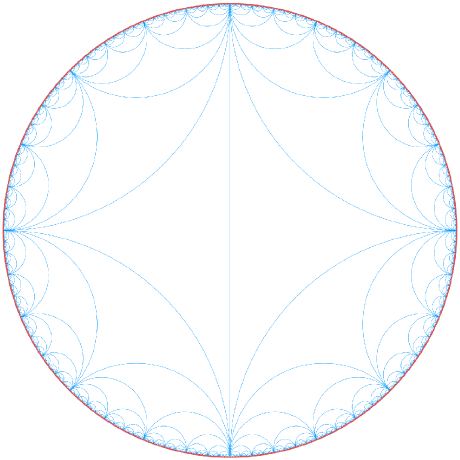
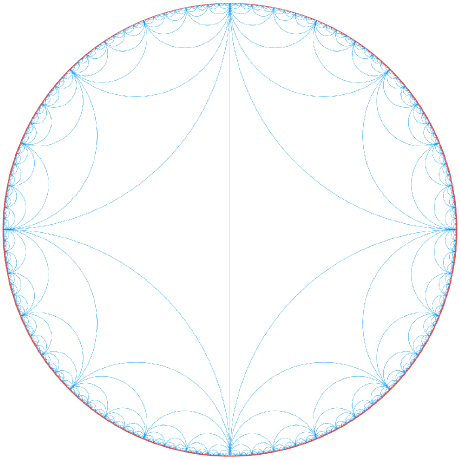
fixed farey

diff --git a/Code/index.html b/Code/index.html
@@ -8,6 +8,11 @@
     <meta name="keywords" content="Number Theory, Arithmetic Statistics, Elliptic Curves">
     <meta name="title" content="Ross Paterson">
     <meta name="description" content="Homepage of Ross Paterson, PhD student in mathematics at the University of Glasgow.">
+    <link rel="icon" type="image/png" sizes="460x460" href="../assets/img/Farey.png">
+    <link rel="icon" type="image/png" sizes="460x460" href="../assets/img/Farey.png">
+    <link rel="icon" type="image/png" sizes="460x460" href="../assets/img/Farey.png">
+    <link rel="icon" type="image/png" sizes="460x460" href="../assets/img/Farey.png">
+    <link rel="icon" type="image/png" sizes="460x460" href="../assets/img/Farey.png">
     <link rel="stylesheet" href="https://cdnjs.cloudflare.com/ajax/libs/twitter-bootstrap/4.3.1/css/bootstrap.min.css">
     <link rel="stylesheet" href="https://cdnjs.cloudflare.com/ajax/libs/ionicons/2.0.1/css/ionicons.min.css">
     <link rel="stylesheet" href="../assets/css/Footer-Basic.css">

diff --git a/Misc/index.html b/Misc/index.html
@@ -8,6 +8,11 @@
     <meta name="keywords" content="Number Theory, Arithmetic Statistics, Elliptic Curves">
     <meta name="title" content="Ross Paterson">
     <meta name="description" content="Homepage of Ross Paterson, PhD student in mathematics at the University of Glasgow.">
+    <link rel="icon" type="image/png" sizes="460x460" href="../assets/img/Farey.png">
+    <link rel="icon" type="image/png" sizes="460x460" href="../assets/img/Farey.png">
+    <link rel="icon" type="image/png" sizes="460x460" href="../assets/img/Farey.png">
+    <link rel="icon" type="image/png" sizes="460x460" href="../assets/img/Farey.png">
+    <link rel="icon" type="image/png" sizes="460x460" href="../assets/img/Farey.png">
     <link rel="stylesheet" href="https://cdnjs.cloudflare.com/ajax/libs/twitter-bootstrap/4.3.1/css/bootstrap.min.css">
     <link rel="stylesheet" href="https://cdnjs.cloudflare.com/ajax/libs/ionicons/2.0.1/css/ionicons.min.css">
     <link rel="stylesheet" href="../assets/css/Footer-Basic.css">

diff --git a/Notes/index.html b/Notes/index.html
@@ -8,6 +8,11 @@
     <meta name="keywords" content="Number Theory, Arithmetic Statistics, Elliptic Curves">
     <meta name="title" content="Ross Paterson">
     <meta name="description" content="Homepage of Ross Paterson, PhD student in mathematics at the University of Glasgow.">
+    <link rel="icon" type="image/png" sizes="460x460" href="../assets/img/Farey.png">
+    <link rel="icon" type="image/png" sizes="460x460" href="../assets/img/Farey.png">
+    <link rel="icon" type="image/png" sizes="460x460" href="../assets/img/Farey.png">
+    <link rel="icon" type="image/png" sizes="460x460" href="../assets/img/Farey.png">
+    <link rel="icon" type="image/png" sizes="460x460" href="../assets/img/Farey.png">
     <link rel="stylesheet" href="https://cdnjs.cloudflare.com/ajax/libs/twitter-bootstrap/4.3.1/css/bootstrap.min.css">
     <link rel="stylesheet" href="https://cdnjs.cloudflare.com/ajax/libs/ionicons/2.0.1/css/ionicons.min.css">
     <link rel="stylesheet" href="../assets/css/Footer-Basic.css">

diff --git a/index.html b/index.html
@@ -8,6 +8,11 @@
     <meta name="keywords" content="Number Theory, Arithmetic Statistics, Elliptic Curves">
     <meta name="title" content="Ross Paterson">
     <meta name="description" content="Homepage of Ross Paterson, PhD student in mathematics at the University of Glasgow.">
+    <link rel="icon" type="image/png" sizes="460x460" href="assets/img/Farey.png">
+    <link rel="icon" type="image/png" sizes="460x460" href="assets/img/Farey.png">
+    <link rel="icon" type="image/png" sizes="460x460" href="assets/img/Farey.png">
+    <link rel="icon" type="image/png" sizes="460x460" href="assets/img/Farey.png">
+    <link rel="icon" type="image/png" sizes="460x460" href="assets/img/Farey.png">
     <link rel="stylesheet" href="https://cdnjs.cloudflare.com/ajax/libs/twitter-bootstrap/4.3.1/css/bootstrap.min.css">
     <link rel="stylesheet" href="https://cdnjs.cloudflare.com/ajax/libs/ionicons/2.0.1/css/ionicons.min.css">
     <link rel="stylesheet" href="assets/css/Footer-Basic.css">
